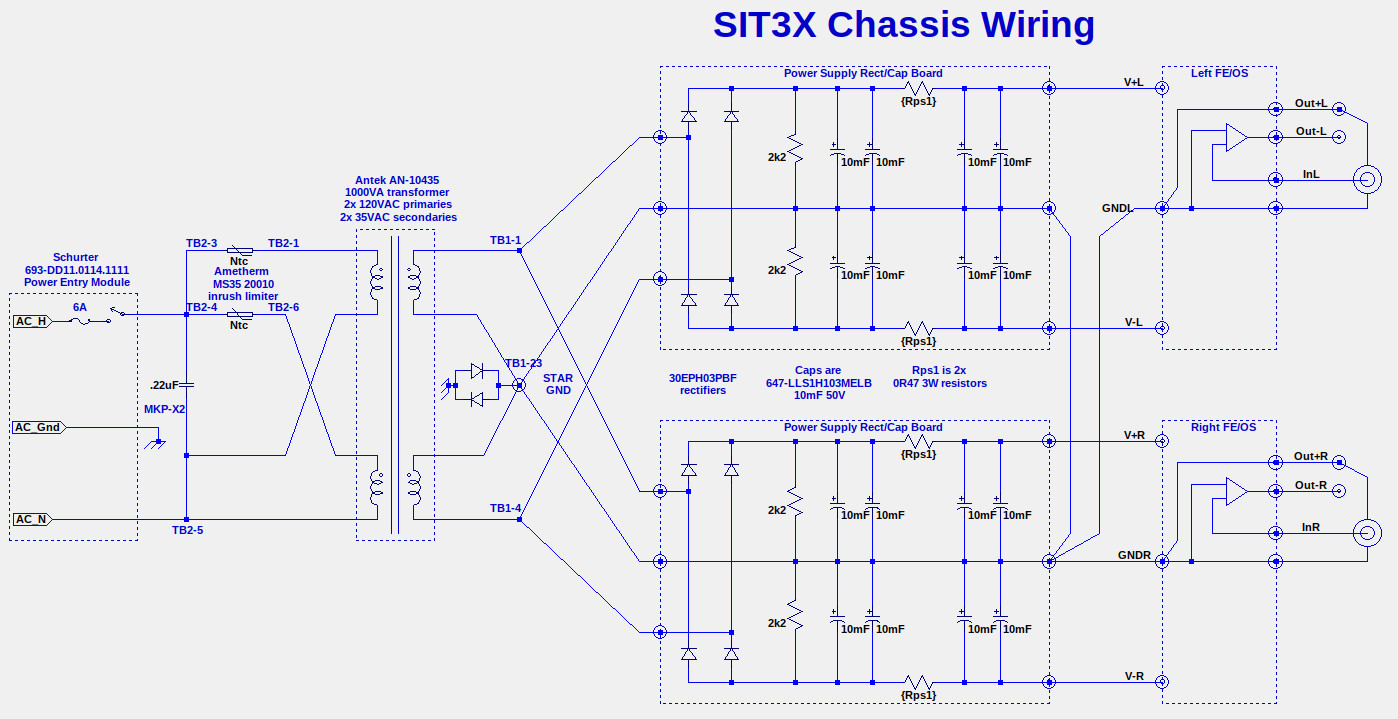
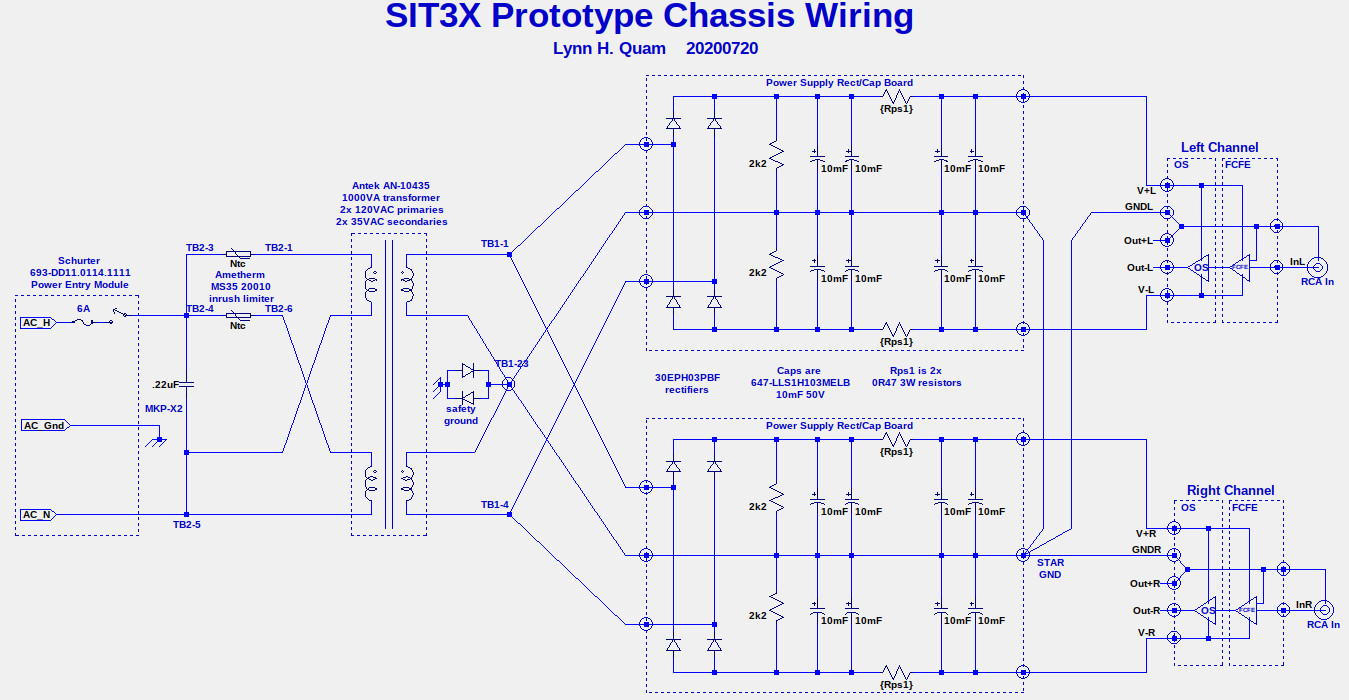
reworked power supply drawings

diff --git a/prototype/prototype.html b/prototype/prototype.html
@@ -5,7 +5,21 @@
     <title>SIT3X-prototype</title>
   </head>
   <body>
-    <h1>SIT3X Prototype</h1>
+    <h1><a name="mozTocId517309" class="mozTocH1"></a>SIT3X Prototype</h1>
+    <ol id="mozToc">
+      <!--mozToc h1 1 h2 2 h3 3 h4 4 h5 5 h6 6-->
+      <li><a href="#mozTocId517309">SIT3X Prototype</a>
+        <ol>
+          <li><a href="#mozTocId686739">PCBs:</a></li>
+          <li><a href="#mozTocId787397">Chassis: </a></li>
+          <li><a href="#mozTocId873114">Power Supply:</a></li>
+          <li><a href="#mozTocId684789">Grounding:
+            </a></li>
+        </ol>
+      </li>
+    </ol>
+    <p><br>
+    </p>
     <table width="1340" height="1330" cellspacing="5" cellpadding="5"
       border="0">
       <tbody>
@@ -30,7 +44,7 @@
         </tr>
       </tbody>
     </table>
-    <h3>PCBs:</h3>
+    <h2><a name="mozTocId686739" class="mozTocH3"></a>PCBs:</h2>
     <p>The SIT3X prototype was built using PCBs from a small fabrication
       run of the OS and FCFE PC boards, and some left over power supply
       boards from a previous amplifier project.&nbsp;&nbsp; During bench
@@ -42,19 +56,7 @@
       documentation.&nbsp; The release versions of the OS and FCFE PCBs
       have been tested in the prototype chassis.<br>
     </p>
-    <h3>Power Supply:</h3>
-    <p>I used an Antek AN-10435 1000VA transformer having two 35Vrms
-      secondaries.&nbsp; I deliberately chose an oversized transformer
-      to allow experimentation with bother higher than necessary rail
-      voltages and higher bias currents.&nbsp;&nbsp; An 800VA
-      transformer with 34Vrms secondaries would be more than adequate,
-      but I would not recommend going much below 600VA and 32Vrms.&nbsp;
-      <a href="prototype-PS.jpg">Prototype Power Supply Schematic</a><a
-        href="prototype-PS.jpg"><img src="prototype-PS.jpg" alt=""
-          width="1398" height="719" border="0"></a><a
-        href="prototype-PS.jpg">Power Supply Schematic:</a><br>
-    </p>
-    <h3>Chassis:</h3>
+    <h2><a name="mozTocId787397" class="mozTocH3"></a>Chassis: </h2>
     <p>The SIT3X prototype uses the same simple chassis construction
       that I have used for most of my other amplifiers.&nbsp; It
       consists of two HeatsinkUSA heatsinks mounted fin-to-fin,
@@ -84,6 +86,71 @@
     <p><a href="Prototype-Chassis-Details.html">Chassis Construction
         Details</a><br>
     </p>
+    <h2><a name="mozTocId873114" class="mozTocH3"></a>Power Supply:</h2>
+    <p>I used an Antek AN-10435 1000VA transformer having two 35Vrms
+      secondaries.&nbsp; I deliberately chose an oversized transformer
+      to allow experimentation with bother higher than necessary rail
+      voltages and higher bias currents.&nbsp;&nbsp; An 800VA
+      transformer with 34Vrms secondaries would be more than adequate,
+      but I would not recommend going much below 600VA and 32Vrms.&nbsp;
+      <br>
+    </p>
+    <img
+src="file:///home/quam/SIT-3/order2/build-guide/SIT3X-Power-Amplifier/prototype/prototype-PS.jpg"
+      alt="" width="1349" height="700"><br>
     <br>
+    <h2>Measurements:</h2>
+    <h3><a name="mozTocId684789" class="mozTocH3"></a>Output Noise
+      Level:<br>
+    </h3>
+    <p> I performed spectrum analyzer measurements and multimeter AC
+      voltage measurements of the SIT3X output with RCA inputs shorted,
+      and found that the noise levels depended on a variety of factors,
+      the primary ones being the wiring of the rectifier/capacitor
+      output grounds to the OS PCBs and the proximity of the rectifiers
+      to the FCFE PCBs.&nbsp;&nbsp; The prototype chassis wiring diagram
+      show the wiring configuration that produced the lowest noise
+      levels after much experimentation.&nbsp; There remains an
+      unexplained difference in noise levels between the channels, as
+      shown in the table below.&nbsp;&nbsp;&nbsp; These noise levels are
+      low enough that I must have my ear next to my 85dB sensitivity
+      loudspeaker cones to hear it.&nbsp; <br>
+    </p>
+    <table width="589" height="85" cellspacing="2" cellpadding="2"
+      border="0">
+      <tbody>
+        <tr>
+          <td valign="top">Condition<br>
+          </td>
+          <td valign="top">Left<br>
+          </td>
+          <td valign="top">Right<br>
+          </td>
+        </tr>
+        <tr>
+          <td valign="top">inputs shorted, input grounds independent<br>
+          </td>
+          <td valign="top">0.2mV<br>
+          </td>
+          <td valign="top">0.9mV<br>
+          </td>
+        </tr>
+        <tr>
+          <td valign="top">inputs shorted, input grounds connected<br>
+          </td>
+          <td valign="top">0.5mV<br>
+          </td>
+          <td valign="top">1.1mV<br>
+          </td>
+        </tr>
+      </tbody>
+    </table>
+    <p>For new SIT3X builds using the prototype chassis design with the
+      new single-channel capacitor boards I recommend the following
+      wiring diagram.&nbsp; It is important that the wires from the star
+      ground to the OS PCB grounds avoid influence from the transformer
+      magnetic fields as much as possible.<br>
+    </p>
+    <img src="prototype-PS-caps1.jpg" alt="" width="1359" height="875"><br>
   </body>
 </html>
